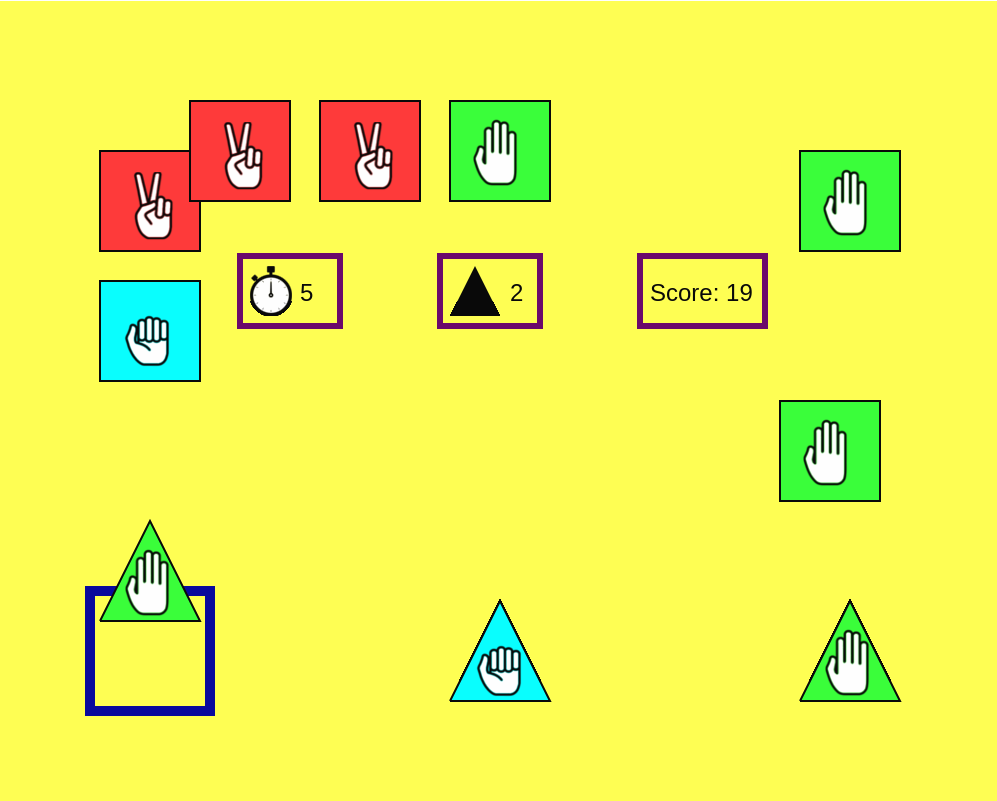
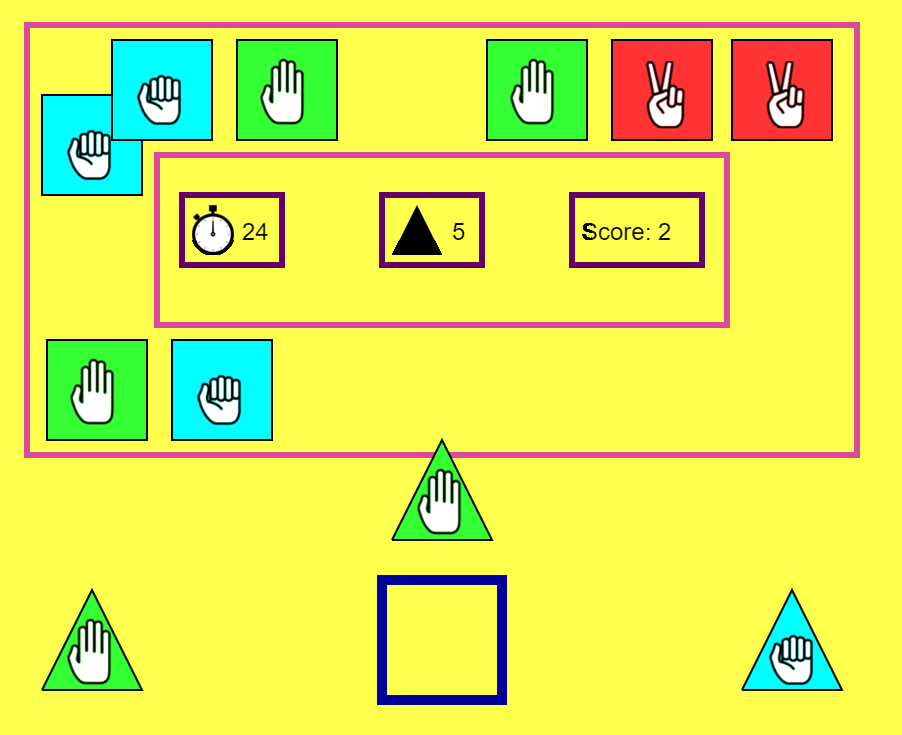
redesigned tutorial

diff --git a/index.html b/index.html
@@ -14,10 +14,17 @@
         <img id="rsp" src="./assets/images/rock-paper-scissors.png">
         <ul id="menu-select">
           <li class="menu-option" onclick="playGame()">Play</li>
-          <li class="menu-option">Instructions</li>
-          <li class="menu-option">Settings</li>
+          <li class="menu-option" onclick="startTutorial()">Instructions</li>
+          <!-- <li class="menu-option">Settings</li> -->
         </ul>
       </div>
+
+      <h1 id="tutorial-header">
+        <button class="tutorial-button" onclick="backTutorial()">Previous</button>
+        <span id="tutorial-page-title">Controls</span>
+        <span id="tutorial-page-number">(1/3)</span>
+        <button class="tutorial-button" onclick="forwardTutorial()">Next</button>
+      </h1>
 
       <div id='game-over'>
         <h2 id='game-over-title'>GAME OVER</h2>
@@ -49,6 +56,7 @@
       var canvas = document.getElementById("myCanvas");
       var ctx = canvas.getContext("2d");
       var game, janken;
+      var tutorialPageNum;
 
 
       var playGame = function () {
@@ -72,6 +80,63 @@
         var gameOver = document.getElementById("game-over");
         gameOver.style.display = "none";
         janken.music.pause();
+      }
+
+      var startTutorial = function () {
+        var canvas = document.getElementById("myCanvas");
+        canvas.style.backgroundImage = "url('./assets/images/tutorial1.png')";
+        var menu = document.getElementById("menu");
+        menu.style.display = "none";
+        var tutorialHeader = document.getElementById("tutorial-header");
+        tutorialHeader.style.display = "inherit";
+        tutorialPageNum = 1;
+        handleTutorialHeader();
+      }
+
+      var backTutorial = function () {
+        tutorialPageNum--;
+        if (tutorialPageNum < 1) {
+          returnToMenu();
+        } else {
+          handleTutorialHeader();
+        }
+      }
+
+      var forwardTutorial = function () {
+        tutorialPageNum++;
+        if (tutorialPageNum > 3) {
+          returnToMenu();
+        } else {
+          handleTutorialHeader();
+        }
+      }
+
+      var handleTutorialHeader = function () {
+        var canvas = document.getElementById("myCanvas");
+        canvas.style.backgroundImage = "url('./assets/images/tutorial" + tutorialPageNum + ".png')";
+        var pageNum = document.getElementById("tutorial-page-number");
+        pageNum.innerHTML = "(" + tutorialPageNum + "/3)"
+        var pageTitle = document.getElementById("tutorial-page-title");
+        switch (tutorialPageNum) {
+          case 1:
+            pageTitle.innerHTML = "Controls";
+            break;
+          case 2:
+            pageTitle.innerHTML = "Gameplay";
+            break;
+          case 3:
+            pageTitle.innerHTML = "Scoring";
+            break;
+        }
+      }
+
+      var returnToMenu = function () {
+        var canvas = document.getElementById("myCanvas");
+        canvas.style.backgroundImage = "";
+        var menu = document.getElementById("menu");
+        menu.style.display = "inherit";
+        var tutorialHeader = document.getElementById("tutorial-header");
+        tutorialHeader.style.display = "none";
       }
       // new Janken.GameView(game, ctx).bindTutorial1();
     </script>

diff --git a/styles.css b/styles.css
@@ -4,6 +4,7 @@
 
 body {
   padding-top: 50px;
+  font-family: sans-serif;
 }
 
 ul {
@@ -15,12 +16,6 @@ canvas {
   display: block;
   margin: 0 auto;
 }
-
-/*h1 {
-  display: block;
-  margin: 0 auto;
-  text-align: center;
-}*/
 
 #canvas-box {
   position: relative;
@@ -48,9 +43,8 @@ canvas {
 #menu-select {
   float: left;
   text-align: center;
-  font-family: sans-serif;
   font-size: 44px;
-  padding-top: 150px;
+  padding-top: 175px;
   padding-left: 100px;
 }
 
@@ -65,6 +59,25 @@ canvas {
   cursor: pointer;
   color: red;
   background-color: #f0c147;
+}
+
+#tutorial-header {
+  display: none;
+  text-align: center;
+  padding-top: 40px;
+  font-size: 36px;
+}
+
+.tutorial-button {
+  font-size: inherit;
+  color: white;
+  text-shadow:
+    -1px -1px 0 #000,
+    1px -1px 0 #000,
+    -1px 1px 0 #000,
+    1px 1px 0 #000;
+  background-color: #69faff;
+  width: 200px;
 }
 
 #game-over {
